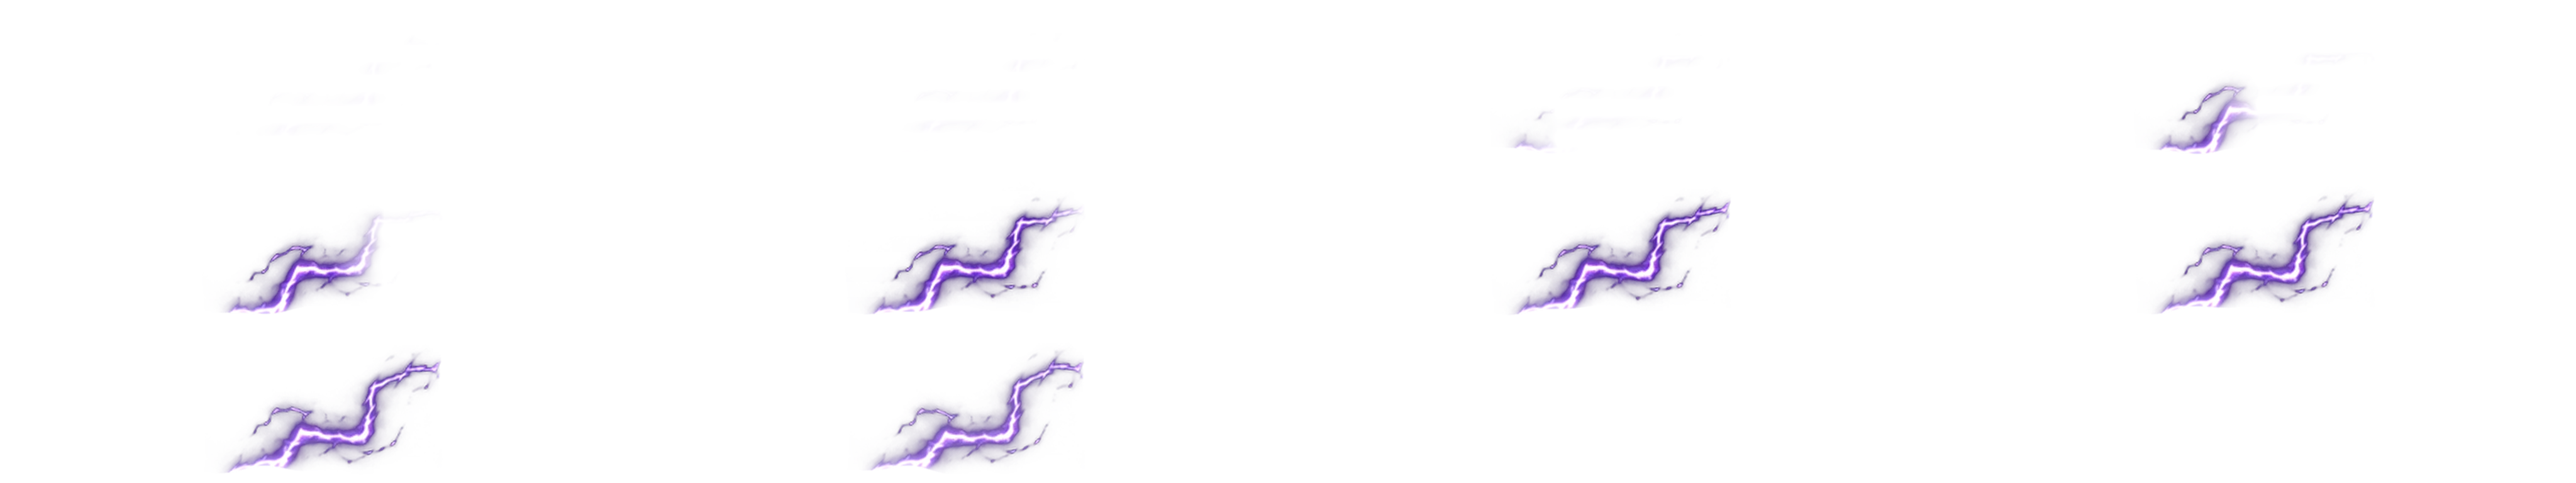
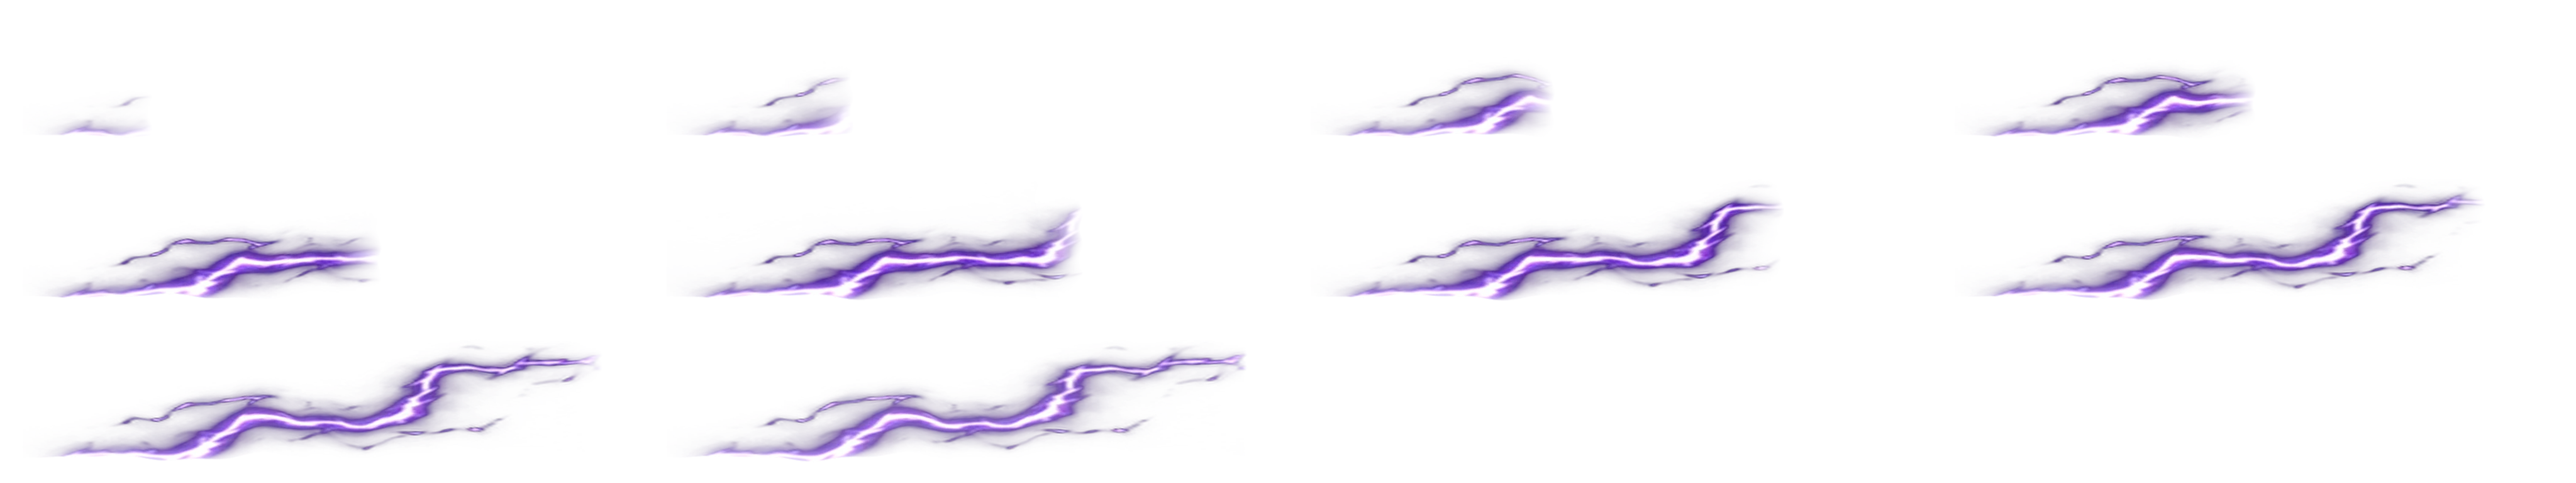
VFX TAL02 R4 + TAL03 R3: fix native-scale painterly beam coverage and mark occlusion

diff --git a/tools/vfx/rebake_tal02_from_master.py b/tools/vfx/rebake_tal02_from_master.py
@@ -1,0 +1,39 @@
+#!/usr/bin/env python3
+"""Rebake a wide painted TAL02 primary lightning atlas from committed WEBP master.
+Requires Pillow, NumPy, OpenCV; offline, deterministic, no downloaded assets.
+Usage: python tools/vfx/rebake_tal02_from_master.py [repo_root]
+"""
+from pathlib import Path
+from sys import argv
+import numpy as np, cv2
+from PIL import Image
+root=Path(argv[1]) if len(argv)>1 else Path('/mnt/data')
+assets=root/'godot/labs/combat_lab/talisman02/assets' if (root/'godot').exists() else root/'tal02_tal03_painted_assets'
+source=Image.open(assets/'tal02_thunder_master.webp').convert('RGBA')
+a=source.getchannel('A').point(lambda x:255 if x>=12 else 0)
+bbox=a.getbbox()
+assert bbox is not None
+box=(max(0,bbox[0]-12),max(0,bbox[1]-9),min(source.width,bbox[2]+12),min(source.height,bbox[3]+9))
+active=source.crop(box)
+# Deliberate horizontal stretch turns the illustrated thunder brush into one continuous
+# long line that reaches from the caster palm to the final demo target. No clip/UI box.
+active=active.resize((952,196),Image.Resampling.LANCZOS)
+beam=Image.new('RGBA',(1024,256),(0,0,0,0))
+beam.alpha_composite(active,(36,28))
+atlas=Image.new('RGBA',(4096,768),(0,0,0,0))
+H,W=256,1024
+for idx in range(10):
+   ar=np.asarray(beam).copy()
+   X,Y=np.meshgrid(np.arange(W,dtype=np.float32),np.arange(H,dtype=np.float32))
+   e=np.sin(np.pi*X/(W-1))
+   mapx=X+(2.1+idx*.18)*np.sin(Y/30+idx*.55)*e
+   mapy=Y+(3.5+idx*.28)*np.sin(X/44+idx*.55)*e+(1.7+idx*.12)*np.sin(X/17-idx*.48)*e
+   moved=cv2.remap(ar,mapx,mapy,cv2.INTER_LINEAR,borderMode=cv2.BORDER_CONSTANT,borderValue=(0,0,0,0)).astype(np.float32)
+   progress=.11+.89*(idx+1)/10
+   edge=np.clip((progress*W-X)/72+.5+np.sin(Y*.13+idx*.67)*.035,0,1)
+   moved[:,:,3]*=edge*(.61+.39*np.sin(np.pi*(idx+1)/12))
+   frame=Image.fromarray(np.clip(moved,0,255).astype(np.uint8),'RGBA')
+   atlas.alpha_composite(frame,((idx%4)*1024,(idx//4)*256))
+out=assets/'tal02_thunder_flipbook.webp'
+atlas.save(out,quality=89,method=3)
+print(f'BAKED_TAL02_PAINTED_PASS {out} 4x3 1024x256 bbox={bbox} bytes={out.stat().st_size}')

diff --git a/godot/labs/combat_lab/talisman02/README.md b/godot/labs/combat_lab/talisman02/README.md
@@ -15,3 +15,6 @@ R1 actual Godot still at 1.08s revealed a stiff three-line neon tube, rejected i
 
 ## R3 source-painted VFX bake — owner direction
 The old SVG brush and runtime dynamic line were still visually neon-tube-like. **Actual hero artwork is now baked from TMB first-party generative painted concept art** (not from a commercial JX game), cropped, dark-matted to transparent alpha, then deformed/revealed into real 10-pose WEBP frames (4096x768 / 4 columns / 3 rows / each 1024x256). The source master is `assets/tal02_thunder_master.webp`; the visible atlas is `assets/tal02_thunder_flipbook.webp`. A separate painted translucent underfoot array `assets/talisman_foot_array.webp` replaces the flat glyph circle. A separate painted local lightning fracture `assets/tal02_fracture_impact.webp` replaces the vector burst. The previous GDScript-drawn lightning is limited to 10% for ancillary electrical jitter; the actual hero silhouette comes from raster art. Geometry remains strictly one LINE with max 3 verified demo contact locations. Source/provenance/alpha quality gates are in `docs/operations/TMB_VFX_PAINTED_SOURCE_TO_GODOT_ASSET_GATE_20261114.md`; do not interpret painting as a gameplay event. R3 actual Godot movie QA and owner visual gate are **pending until run succeeds and actual frames reviewed**.
+
+## R4 painterly continuity correction / real Godot inspection
+Genuine R3 movie run [43584347436](https://github.com/vuanhtuan161094-byte/TongMonBaDao/actions/runs/43584347436) passed strict QA and encoded 188 frames at 1280×720. Visual self-review at 1.08s found the painted thunder brightest part floating too far toward the right; only a faint runtime connector linked the caster to it. **R4 rebakes the real 10-pose atlas**, normalizing the alpha artwork's true non-empty bounding box and stretching the painterly thunder to nearly the full line width before rendering. Repro source: `tools/vfx/rebake_tal02_from_master.py` reads the committed WebP master and outputs `tal02_thunder_flipbook.webp`; requires NumPy, OpenCV and Pillow. This adjustment changes only ART, not hit geometry or Combat V2. Strict exact-SHA video and owner review still required after rebake.

diff --git a/godot/labs/combat_lab/talisman03/README.md b/godot/labs/combat_lab/talisman03/README.md
@@ -8,3 +8,6 @@
 
 ## R2 source-painted VFX bake — owner direction
 The legacy 8 static-shape SVG glyphs remain in the repo as archival comparison only. The real displayed mark is now an **original painted glowing talisman/seal image**, with alpha extracted from a first-party image-generated artistic concept and eight distinct time-phased warped reveals: `assets/tal03_mark_master.webp` (320x320), `assets/tal03_mark_flipbook.webp` (1280x640; 4x2 cells). The painterly caste underfoot array is shared at `res://labs/combat_lab/talisman02/assets/talisman_foot_array.webp`. The marked seal now holds steady at chest level and never triggers damage or DoT ticks. The six-second verified duration is metadata; the LAB shows a demo duration only. The art cannot be considered OWNER_VISUAL_APPROVED before the exact-SHA Godot MP4 is examined. See the shared baked-art quality gate for provenance, alpha checks and anti-halo controls.
+
+## R3 painterly mark placement correction
+Genuine R2 Godot 1280×720 run [43584347379](https://github.com/vuanhtuan161094-byte/TongMonBaDao/actions/runs/43584347379) strict QA succeeded; visually reviewed 1.08s and 5.03s. Painted mark material is a clear improvement over procedural rings, but its 110–136px width obscured too much of the chest/face. R3 reduces the initial mark half-size to 52px and steady half-size to 40px while retaining the same eight pose atlas and exact 6-second mark contract. This is a legibility change, not a gameplay balance alteration. Exact-SHA video must verify readability at 1x before approval.

diff --git a/docs/operations/TMB_VFX_PAINTED_SOURCE_TO_GODOT_ASSET_GATE_20261114.md b/docs/operations/TMB_VFX_PAINTED_SOURCE_TO_GODOT_ASSET_GATE_20261114.md
@@ -36,3 +36,6 @@ The TAL02/TAL03 painted samples below were extracted from **original image-gener
 - [ ] Native Godot footage with full 8+ checkpoints inspected; exact SHA, run ID and artifact present
 - [ ] No gameplay contract fabrication; all cosmetic events correctly gated
 - [ ] Owner explicitly approved THIS skill, not just the METHOD; PvE remains separate
+
+## Evidence-driven correction case — TAL02 R3→R4 / TAL03 R2→R3
+Review the **actual Godot 1280×720 screenshot**, not just the standalone asset on charcoal. The first baked TAL02 alpha atlas was rich, but 1.08s revealed its nontransparent pixels only spanned x≈350..702 of a 1024px cell; it produced a disconnected floating energy fragment. TAL02 R4 normalizes the true alpha bounding box, stretches the original painted pixels into the usable 952px width, then regenerates all 10 warped/wiped poses; tiny procedural support remains subordinate. The TAL03 R2 proof at 1.08 and 5.03s showed high-quality painting but a too-large target mark, so R3 reduces the mark's displayed size from 68→52 initial radius and 55→40 steady. Both fixes follow the art-first rule: keep painterly material while correcting native-scale position, lighting and silhouette. Record the corrective run's SHA and 8+ frames separately; do not call art approved merely because alpha tests and CI are green.
